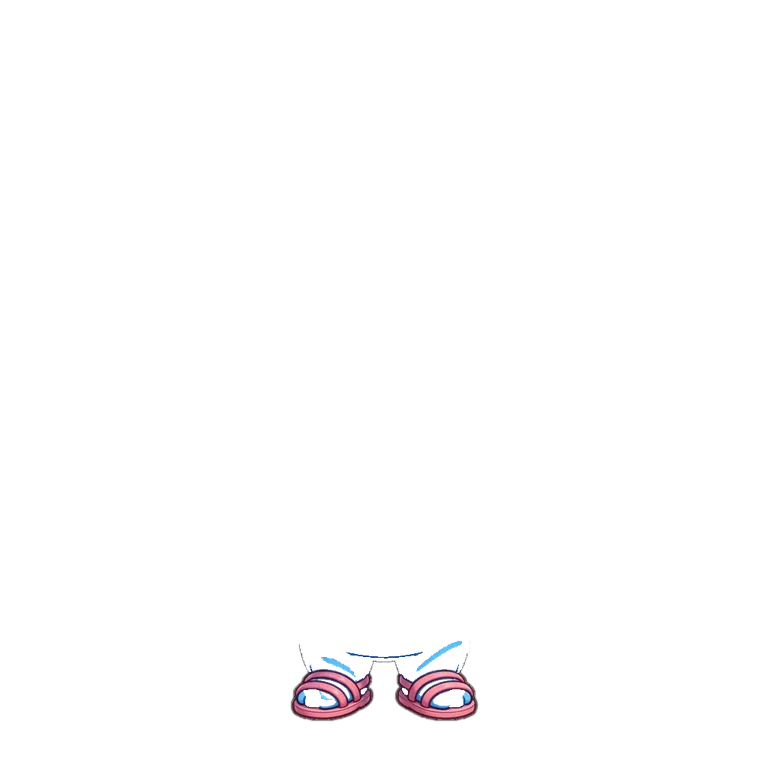
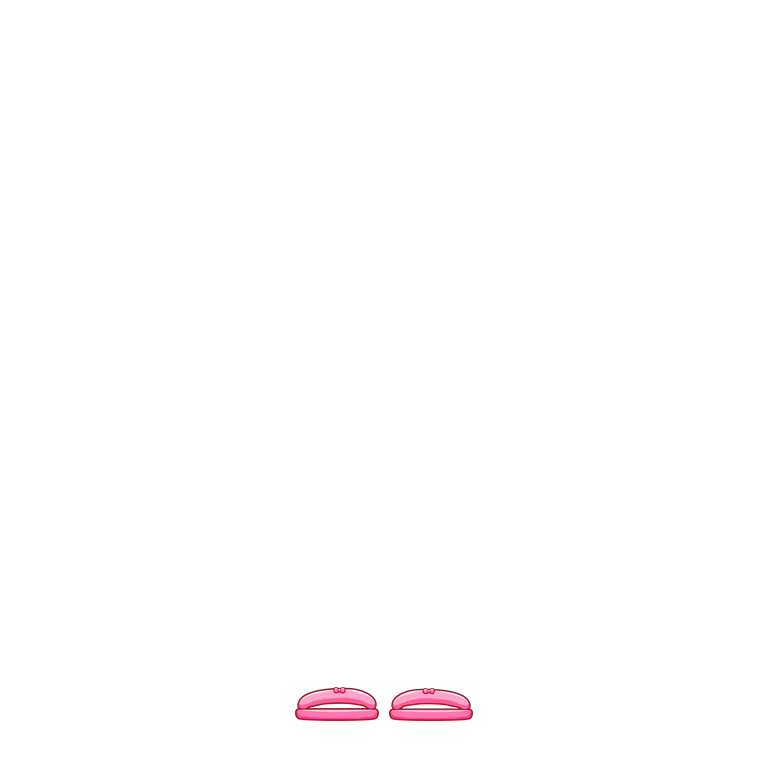
Pi: dép quai ngang hồng nữ Muse vẽ riêng (vẽ thử nhóm Giày đạt)
Claude-Session: https://claude.ai/code/session_0163KSZYdzHDud2uG42gs7mp

Changed region(s): [[0.375, 0.8438, 0.625, 0.9375]]

diff --git a/scripts/pi/build.py b/scripts/pi/build.py
@@ -96,7 +96,7 @@ for side in ("trai", "phai"):
 # 24/10 soát từng món: vệt lá cũ sót xa gốc lá (vùng rộng; KHÔNG áp chung vì vòng hoa có lá thật)
 # 24/10 tối (chủ dự án chốt): món Muse vẽ RIÊNG trên nền trong suốt → chỉ đặt đè lên, KHÔNG chạy bộ cắt lá / vụn (cắt nhầm mũ xanh lá)
 STANDALONE = {  # 25/10: món vẽ riêng đã duyệt ghép
-              "giangsinh-nam-dau01", "giangsinh-nam-dau02", "giangsinh-nam-dau03", "giangsinh-nam-dau04", "giangsinh-nam-dau05", "giangsinh-nam-pk03", "giangsinh-nam-pk12", "giangsinh-nu-dau01", "giangsinh-nu-dau02", "giangsinh-nu-dau04", "giangsinh-nu-pk03", "halloween-nam-dau01", "halloween-nam-dau02", "halloween-nam-dau05", "halloween-nam-pk04", "halloween-nu-dau01", "muadong-nam-dau01", "muadong-nam-dau02", "muadong-nam-dau03", "muadong-nam-dau05", "muadong-nam-pk01", "muadong-nam-pk02", "muadong-nam-pk11", "muadong-nu-dau01", "muadong-nu-dau03", "muadong-nu-dau04", "muadong-nu-pk01", "muadong-nu-pk02", "muahe-nam-dau01", "muahe-nam-dau02", "muahe-nam-dau03", "muahe-nam-dau04", "muahe-nam-pk12", "muahe-nu-dau01", "muahe-nu-dau02", "muahe-nu-dau04", "tet-nam-dau01", "tet-nam-dau02", "tet-nam-dau03", "tet-nam-dau04", "tet-nam-pk03", "tet-nam-pk11", "tet-nu-dau01", "tet-nu-dau02", "tet-nu-dau03", "tet-nu-dau05", "tet-nu-pk04", "tet-nu-pk11", "trungthu-nam-dau01", "trungthu-nam-dau02", "trungthu-nam-dau03", "trungthu-nam-dau04", "trungthu-nam-dau05", "trungthu-nam-pk09", "trungthu-nam-pk10", "trungthu-nam-pk11", "trungthu-nu-dau02", "trungthu-nu-dau05", "trungthu-nu-pk10", "giangsinh-nam-giay01"}
+              "giangsinh-nam-dau01", "giangsinh-nam-dau02", "giangsinh-nam-dau03", "giangsinh-nam-dau04", "giangsinh-nam-dau05", "giangsinh-nam-pk03", "giangsinh-nam-pk12", "giangsinh-nu-dau01", "giangsinh-nu-dau02", "giangsinh-nu-dau04", "giangsinh-nu-pk03", "halloween-nam-dau01", "halloween-nam-dau02", "halloween-nam-dau05", "halloween-nam-pk04", "halloween-nu-dau01", "muadong-nam-dau01", "muadong-nam-dau02", "muadong-nam-dau03", "muadong-nam-dau05", "muadong-nam-pk01", "muadong-nam-pk02", "muadong-nam-pk11", "muadong-nu-dau01", "muadong-nu-dau03", "muadong-nu-dau04", "muadong-nu-pk01", "muadong-nu-pk02", "muahe-nam-dau01", "muahe-nam-dau02", "muahe-nam-dau03", "muahe-nam-dau04", "muahe-nam-pk12", "muahe-nu-dau01", "muahe-nu-dau02", "muahe-nu-dau04", "tet-nam-dau01", "tet-nam-dau02", "tet-nam-dau03", "tet-nam-dau04", "tet-nam-pk03", "tet-nam-pk11", "tet-nu-dau01", "tet-nu-dau02", "tet-nu-dau03", "tet-nu-dau05", "tet-nu-pk04", "tet-nu-pk11", "trungthu-nam-dau01", "trungthu-nam-dau02", "trungthu-nam-dau03", "trungthu-nam-dau04", "trungthu-nam-dau05", "trungthu-nam-pk09", "trungthu-nam-pk10", "trungthu-nam-pk11", "trungthu-nu-dau02", "trungthu-nu-dau05", "trungthu-nu-pk10", "giangsinh-nam-giay01", "muahe-nu-giay02"}
 SHOE_SCALE = {"tet-nu-giay02": 0.66}
 LEAF_WIDE = {"giangsinh-nam-dau05", "trungthu-nam-dau03", "muahe-nam-dau05", "trungthu-nu-dau02"}
 ARM_HIDE = {"giangsinh-nam-pk07": "trai", "muadong-nam-pk08": "trai", "muadong-nu-pk08": "trai", "muahe-nam-pk05": "trai",
